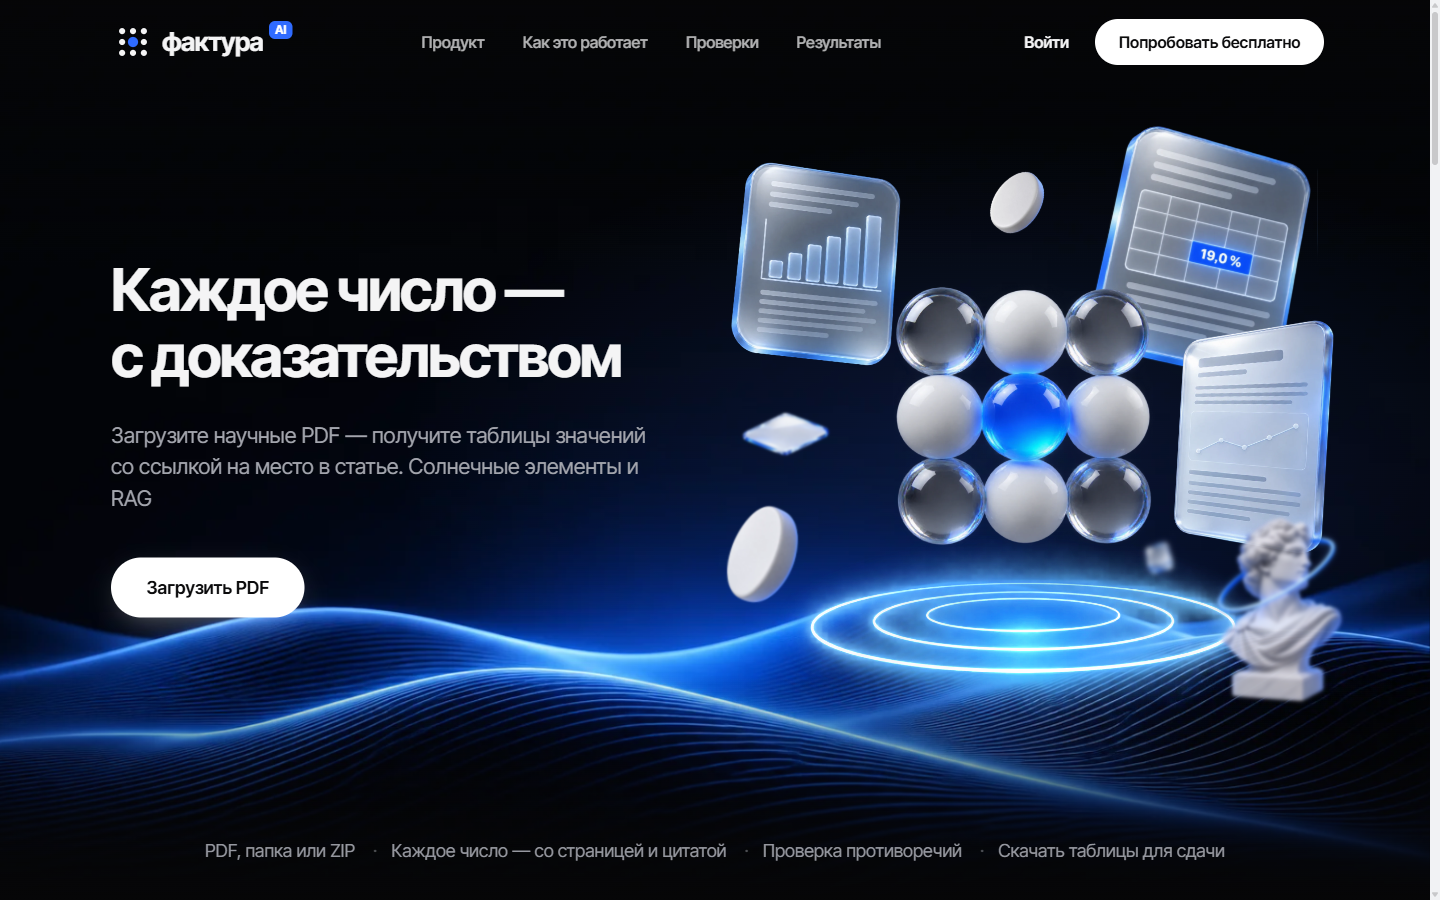
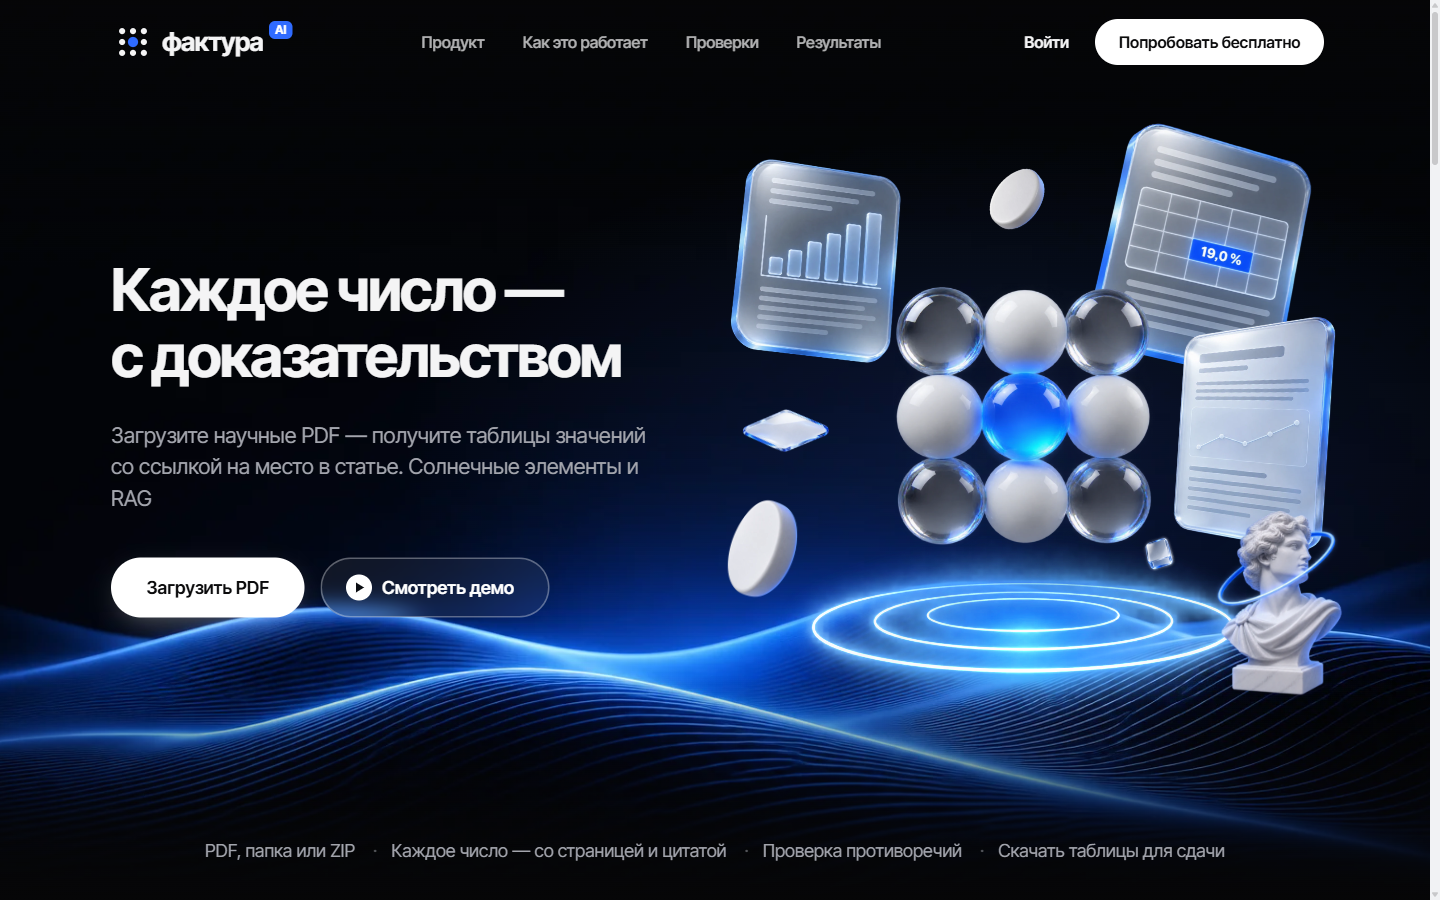
Лендинг: кнопка «Смотреть демо»; README: полный список возможностей, новый скриншот

diff --git a/src/views/LandingView.vue b/src/views/LandingView.vue
@@ -233,6 +233,7 @@ onBeforeUnmount(() => {
             <p class="hero__lead">Загрузите научные PDF — получите таблицы значений со ссылкой на место в статье. Солнечные элементы и RAG</p>
             <div class="hero__btns">
               <a class="btn btn--white" href="/app" @click.prevent="upload">Загрузить PDF</a>
+              <a class="btn btn--glass" href="#product" @click.prevent="go('product')"><span class="play" aria-hidden="true" />Смотреть демо</a>
             </div>
           </div>
 
@@ -407,6 +408,10 @@ onBeforeUnmount(() => {
 .btn:hover { transform: translateY(-2px); }
 .btn:active { transform: translateY(0) scale(.98); }
 .btn--white { background: #fff; color: var(--ink) !important; box-shadow: 0 10px 30px -12px rgba(255, 255, 255, .45); }
+.btn--glass { color: #fff !important; border-color: rgba(255, 255, 255, .32); background: rgba(255, 255, 255, .06); backdrop-filter: blur(10px); -webkit-backdrop-filter: blur(10px); }
+.btn--glass:hover { border-color: rgba(255, 255, 255, .6); background: rgba(255, 255, 255, .12); }
+.btn--glass .play { width: 26px; height: 26px; margin-left: -10px; border-radius: 50%; background: #fff; position: relative; flex: none; }
+.btn--glass .play::after { content: ''; position: absolute; left: 10px; top: 8px; border-left: 8px solid #0b0d12; border-top: 5px solid transparent; border-bottom: 5px solid transparent; }
 .btn--white:hover { box-shadow: 0 16px 40px -12px rgba(255, 255, 255, .6); }
 .btn--ghost { color: var(--on-dark); border-color: rgba(255, 255, 255, .55); }
 .btn--ghost:hover { border-color: #fff; background: rgba(255, 255, 255, .06); }

diff --git a/README.md b/README.md
@@ -46,18 +46,56 @@
 
 ## Возможности
 
-- **Загрузка и разбор.** PDF, папка или ZIP загружаются перетаскиванием. Область («Солнечные элементы» или «RAG») выбирается при загрузке. Разбор идёт с прогрессом и примерным временем до конца.
-- **Разбор как лента.** Список файлов со статусами, сводка, покрытие показателей, замечания, кнопка «Скачать набор». Если статьи не подошли к выбранной области, их можно отметить и разобрать в другой области отдельным разбором.
-- **Статья.** PDF с подсветкой цитаты на нужной странице, рядом все значения статьи: условия измерения, повторы, замечания.
-- **Данные.**
-  - «Таблица»: те же 7 таблиц, что уходят на сдачу.
-  - «Проверки»: замечания по правилам.
-  - «Паспорт»: поля, типы, единицы, правила и критерии.
-  - «Экспорт».
-- **Набор для сдачи.** ZIP с 7 CSV и паспортом. С бэком сервер прогоняет официальный `check_submission.py`, и итог проверки показывается после скачивания.
-- **Правки и журнал.** Значение можно принять, исправить или отклонить, замечание — закрыть. Все действия видны в журнале и отменяются.
-- **Вопросы по разбору.** Спросите обычными словами («лучший КПД перовскитов со слоем SnO2») — ответ со ссылками на строки и страницы. Есть голосовой ввод.
-- **Удобство.** Поиск по статьям и значениям (Ctrl+K), горячие клавиши, светлая и тёмная тема, адаптивная вёрстка, единые скелетоны загрузки.
+### Загрузка и разбор
+- PDF, папка или ZIP — перетаскиванием в любое место приложения или через скрепку.
+- Область выбирается при загрузке: «Солнечные элементы» или «RAG» (на телефоне — выпадающим списком).
+- Прогресс каждого файла и всего разбора, этап («Извлечение», «Нормализация», «Проверка») и примерное время до конца. С бэком ход разбора приходит потоком событий (SSE), при обрыве — опрос раз в 2 секунды.
+- Статусы файлов: готово, не по теме (с причиной), нет данных, скан с OCR (с надёжностью распознавания), ошибка.
+- Файлы можно догрузить в уже созданный разбор.
+- Если статьи не подошли к области, сервис подсказывает «похоже на RAG» или «похоже на солнечные» — отмеченные статьи разбираются в другой области отдельным разбором, исходный не меняется.
+
+### Разбор
+- Лента разбора: загруженные файлы, сводка (статьи, значения, замечания), покрытие показателей по статьям, лучшие значения по каждому показателю, замечания по типам проверок.
+- Набор для сдачи прямо в ленте: 7 таблиц с вкладками, фильтр по статье, поиск по таблице, массовое принятие и отклонение строк.
+- Меню «Скачать»: набор для сдачи (ZIP), один файл JSON, файл Excel, паспорт в Markdown и JSON.
+- Управление разбором: переименовать, закрепить, перезапустить, остановить, удалить (с подтверждением).
+- Время и кнопка «Копировать» под сводкой и под каждым ответом.
+
+### Статья
+- PDF рядом со значениями: клик по числу открывает нужную страницу и подсвечивает дословную цитату.
+- Значения сгруппированы по приборам и условиям измерения, видны повторы и ссылки на связанные строки (прибор, измерение, материал).
+- Для RAG — конфигурации, датасеты, задачи и эксперименты, фильтры по метрике, конфигурации и датасету; десятки тысяч строк подгружаются постранично.
+- Вкладка «Замечания» с переходом к месту в PDF.
+
+### Правки и журнал
+- Каждое значение можно принять, исправить (новое число) или отклонить. Отклонённые строки не попадают в набор, исправленные уходят с новым значением.
+- Замечание можно отметить «Исправлено» или «Это не ошибка»; замечания закрываются и сами, когда исправлены все связанные значения.
+- Журнал правок: все действия по дням, отмена любого действия и «Отменить последнее». С бэком журнал хранится на сервере и одинаков в любом браузере.
+
+### Данные
+- «Таблица» — те же 7 таблиц, что уходят на сдачу, с выбором статей и показателей.
+- «Проверки» — замечания по группам: числа не сходятся (КПД ≠ Voc·Jsc·FF), противоречия в статье, единицы и округление, условия измерения.
+- «Паспорт» — поля, типы, единицы, правила проверок, нормализация и критерии отбора; с бэком — тот же паспорт, что лежит в ZIP.
+- «Экспорт» — предпросмотр всех таблиц, ZIP, JSON и Excel, набор по всем разборам сразу.
+
+### Набор для сдачи
+- ZIP с 7 CSV точно по шаблону кейса, `PASSPORT.md` и `passport.json`.
+- С бэком сервер прогоняет официальный `check_submission.py`: итог проверки показывается после скачивания, при ошибках — с первой ошибкой и кнопкой «Скачать без проверки».
+- Пока разбор идёт, можно скачать уже готовые статьи.
+
+### Вопросы по разбору
+- Спросите обычными словами: «лучший КПД перовскитов со слоем SnO2», «замечания у D001», «какие датасеты». Ответ — короткий текст и карточки со строками, каждое число со сноской на статью и страницу.
+- Подсказки вопросов по данным разбора и голосовой ввод (Chrome, Edge).
+
+### Словарь нормализации
+- Синонимы показателей, материалов и условий измерения («КПД» = «PCE» = «η»), единицы и множители к основной единице.
+- Свои синонимы добавляются и удаляются; с бэком хранятся на сервере и применяются к новым разборам.
+
+### Удобство
+- Поиск по разборам, статьям и значениям (Ctrl+K), горячие клавиши.
+- Светлая и тёмная тема, адаптивная вёрстка для телефона.
+- Единые скелетоны загрузки, уведомления с полоской до закрытия и кнопкой «Вернуть», подтверждение опасных действий.
+- Ссылки на любое значение, статью и замечание открываются напрямую и после обновления страницы.
 
 ## Стек
 
